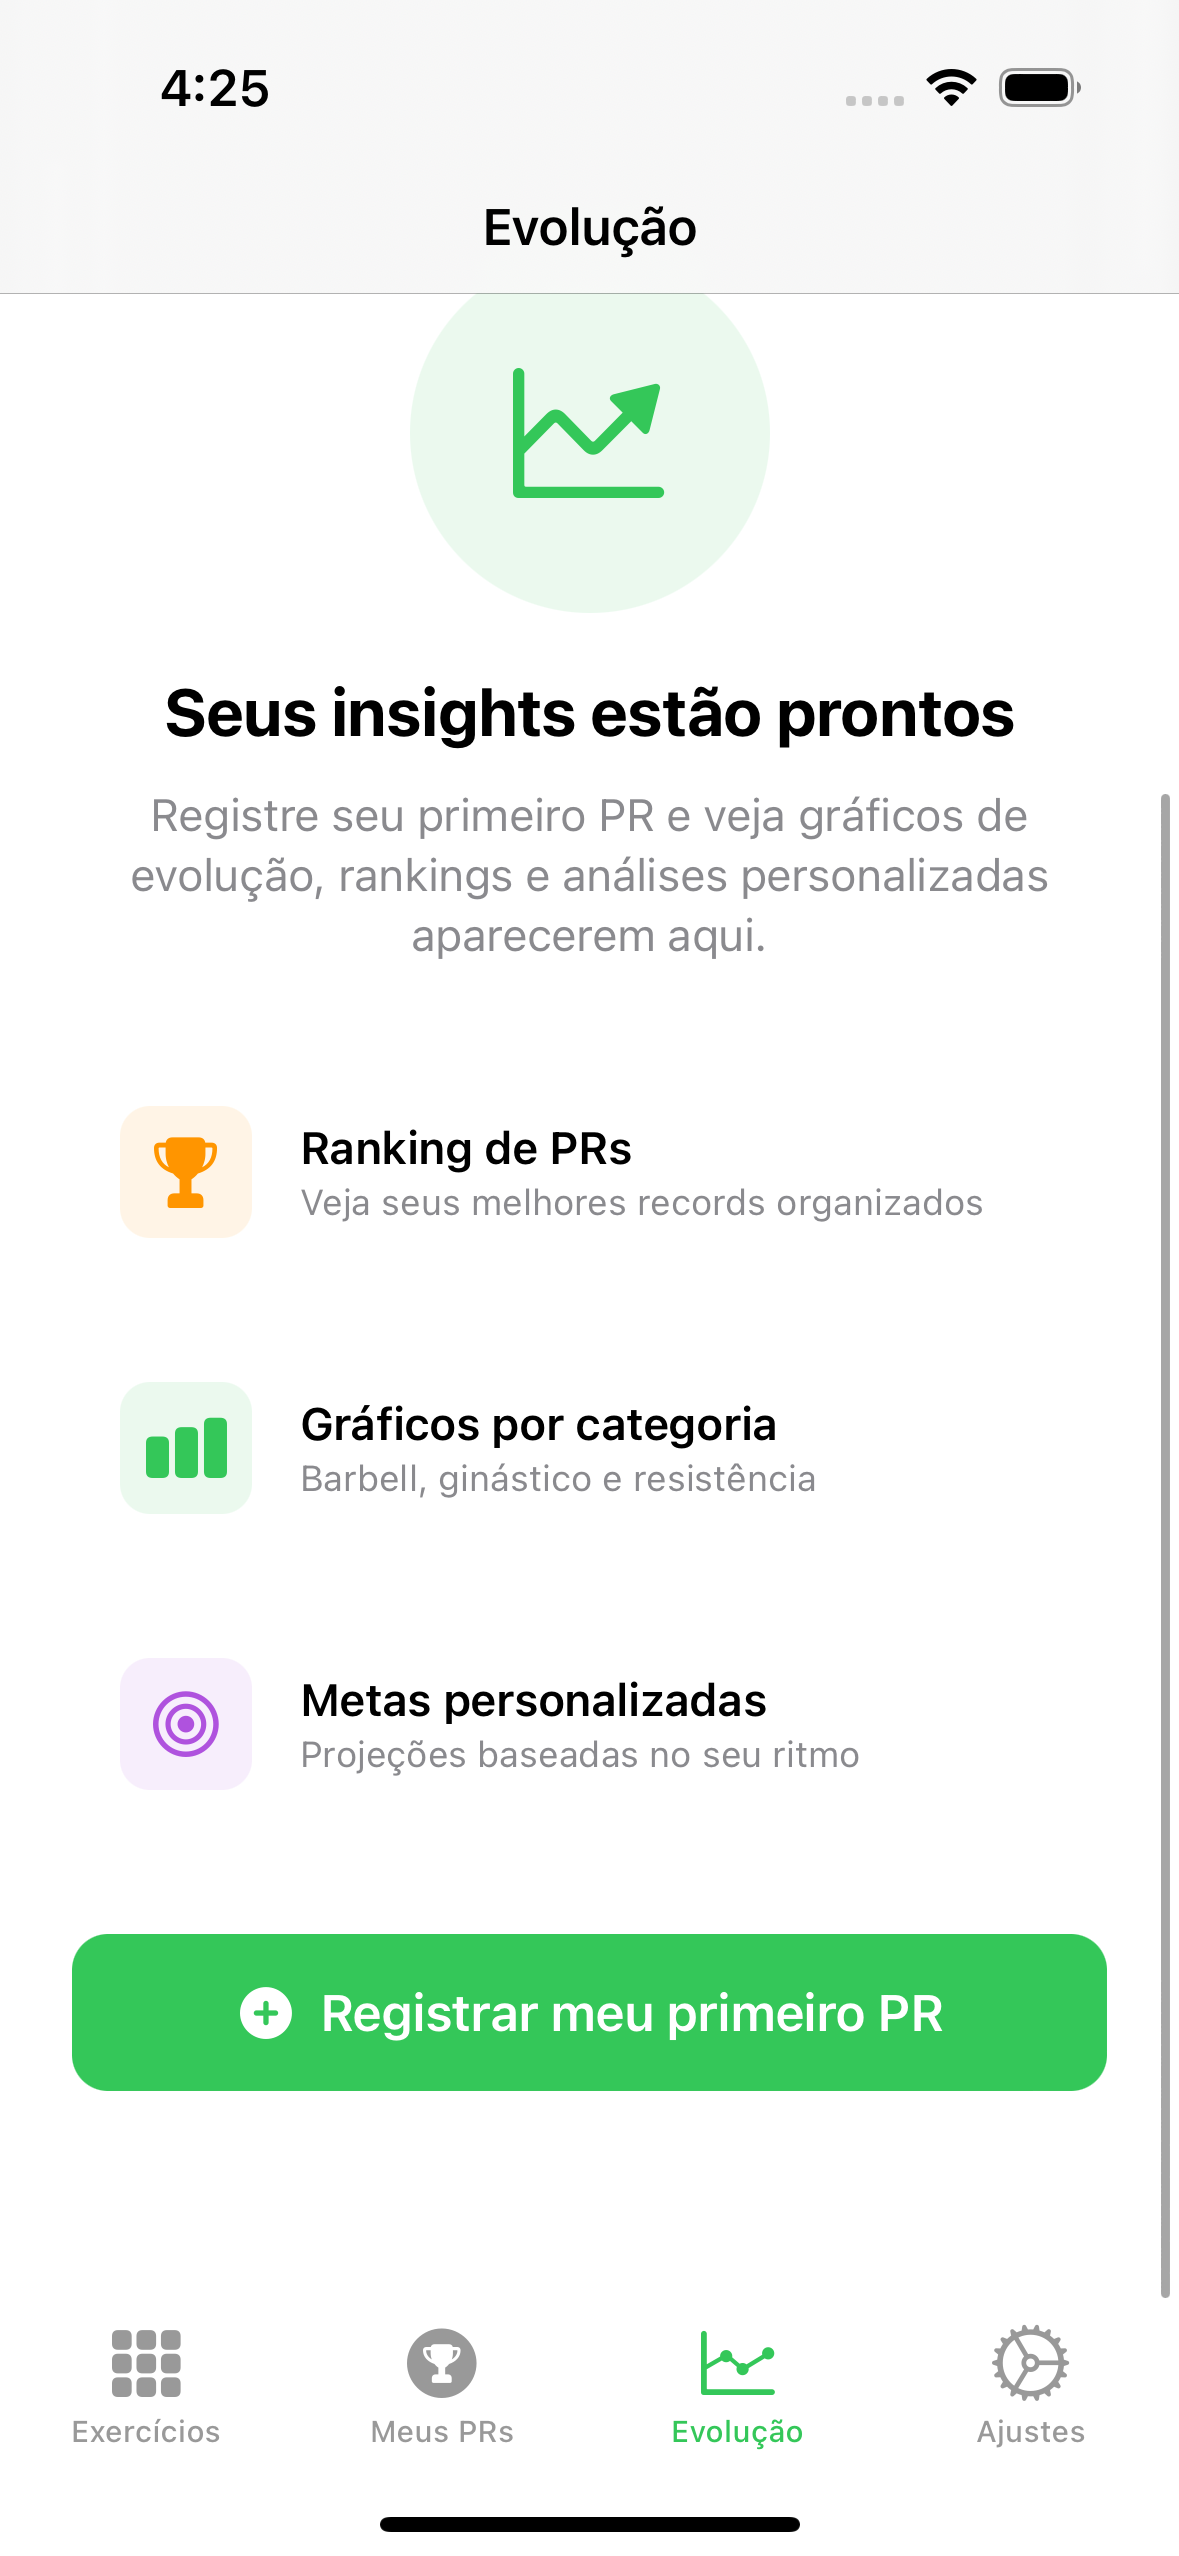
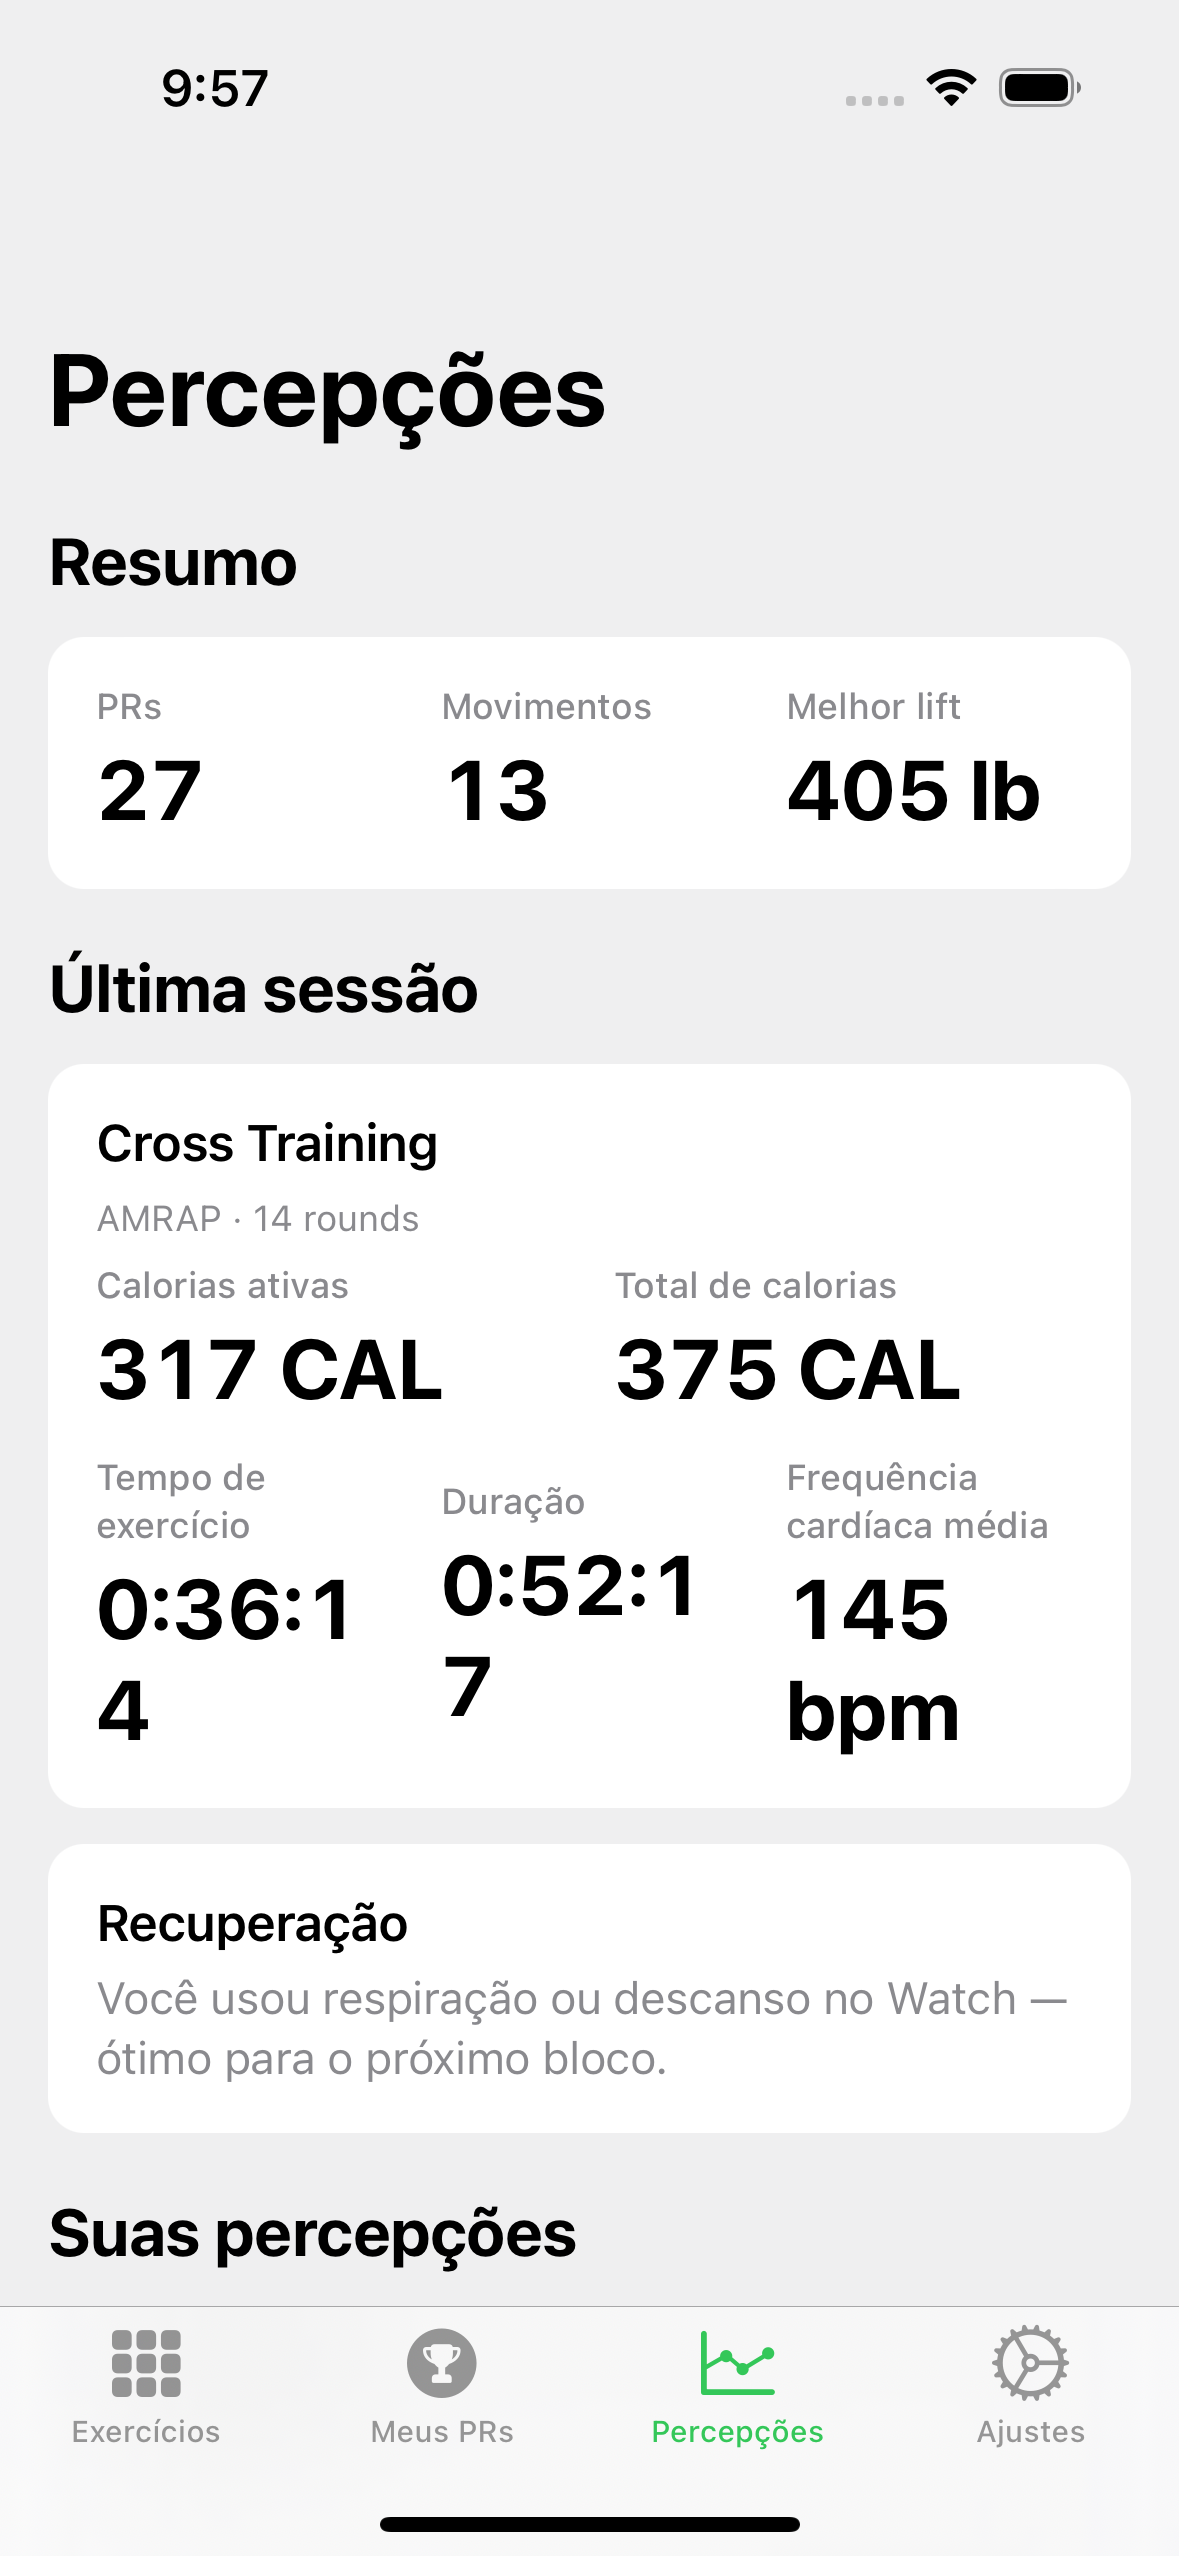
chore(screenshots): regenera Insights Free/PRO/Elite e força onboarding no capture.
Atualiza roadmap pós-CPR-011/012 e evita falha quando o simulador já concluiu o onboarding.

diff --git a/CrossfitPRUITests/ReadmeScreenshotsUITests.swift b/CrossfitPRUITests/ReadmeScreenshotsUITests.swift
@@ -26,6 +26,7 @@ final class ReadmeScreenshotsUITests: XCTestCase {
         let app = XCUIApplication()
         app.launchArguments += ["-AppleLanguages", "(pt-BR)", "-AppleLocale", "pt_BR"]
         app.launchEnvironment["UITEST_SKIP_SPLASH"] = "1"
+        app.launchEnvironment["UITEST_FORCE_ONBOARDING"] = "1"
         app.launchEnvironment["UITEST_SEED_SCENARIO"] = "empty"
         app.launch()
 

diff --git a/docs/PRODUCT-ROADMAP.md b/docs/PRODUCT-ROADMAP.md
@@ -11,6 +11,8 @@ Visão pública do que já está no app versus o que está **planejado** (SPDD `
 | PRO | Gráficos, rankings, WorkoutEngine, card **Coach** (on-device / cloud / resumo), cache local, export |
 | Dados | Offline-first + sync iCloud (best-effort) |
 | Idiomas | pt-BR e en com QA automatizado no CI |
+| Percepções | Hub Insights estilo Fitness (Free teaser + PRO/Elite) — CPR-011 |
+| Sessão / HealthKit | WOD + biometrics (mock em sim/UITest) — CPR-012 / CPR-009 |
 
 ## Coach IA (CPR-007) — shipped MVP
 
@@ -38,10 +40,10 @@ Visão pública do que já está no app versus o que está **planejado** (SPDD `
 ## Próximos passos (dev)
 
 1. **CI:** confirmar verde em [`ios.yml`](.github/workflows/ios.yml) na `main` (rerun se fila macOS); gate local Xcode 15+: `./scripts/ci-modern.sh`.
-2. **CPR-007:** testar iOS 26+ on-device + `OPENAI_API_KEY` em device; revisar logs `Coaching` no Console.
-3. **Mídia README:** `./scripts/capture-readme-media-auto.sh` → commit PNG/GIF (incluir paywall Elite quando estável).
-4. **CPR-008:** código Elite no app → App Store Connect (produtos reais) + screenshots Design; prompts coach Elite dedicados (canvas Feat).
-5. **CPR-009:** rodar `./scripts/capture-watch-readme-screenshots.sh` e commitar `watch-*.png`; canvas Design + comercial PRO+Watch.
+2. **Mídia README:** `./scripts/capture-readme-media-auto.sh` → commit PNG/GIF Insights Free/PRO/Elite (empty + rich) + paywall Elite quando estável.
+3. **CPR-007:** testar iOS 26+ on-device + `OPENAI_API_KEY` em device; revisar logs `Coaching` no Console.
+4. **CPR-008:** App Store Connect (produtos Elite reais) + screenshots Design; prompts coach Elite dedicados (canvas Feat).
+5. **CPR-009:** canvas Design final + comercial PRO+Watch (`watch-*.png` já na `main`).
 6. **Personas:** skill [`.cursor/skills/crossfit-athlete-personas`](../.cursor/skills/crossfit-athlete-personas/SKILL.md) · [CPR-010](../spdd/analysis/CPR-010-crossfit-market-mayhem-personas.md).
 
 ## Como acompanhar

diff --git a/docs/screenshots/REVIEW-INSIGHTS-HUB.md b/docs/screenshots/REVIEW-INSIGHTS-HUB.md
@@ -1,6 +1,6 @@
 # Review visual — Insights hub (CPR-011)
 
-Branch: `feature/insights-hub-healthkit-wod`
+Na `main` (PR #37).
 
 ## Como regenerar os prints
 
@@ -9,7 +9,7 @@ Com o simulador saudável (se o CoreSimulator travar: reinicie o Mac ou `killall
 ```bash
 ./scripts/generate-xcodeproj.sh
 ./scripts/configure-spm-xcode14.sh   # só Xcode 14.2 local
-export CODE_SIGNING_ALLOWED=NO
+# Não use CODE_SIGNING_ALLOWED=NO — o XCUITest deixa de ver a UI no simulador.
 ./scripts/capture-readme-media-auto.sh
 ```
 
